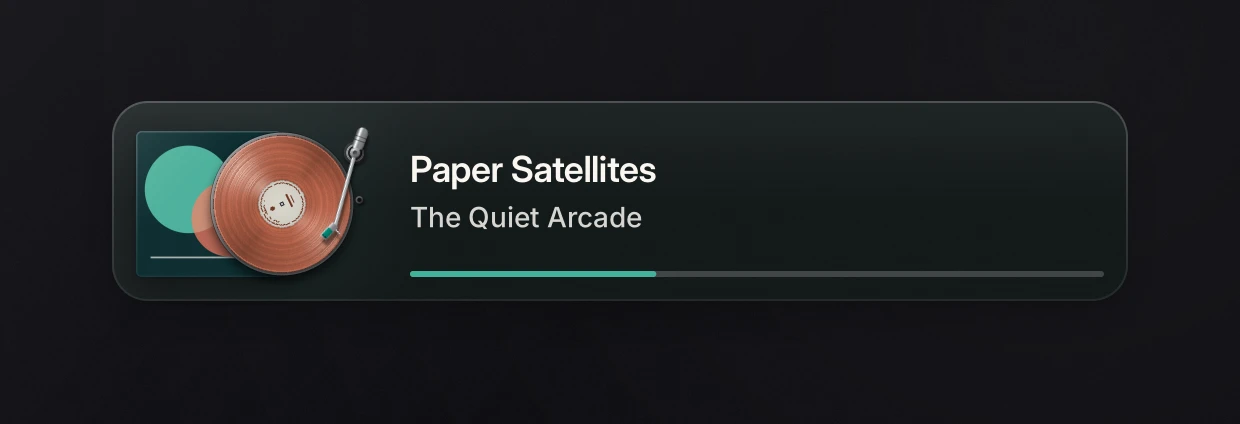
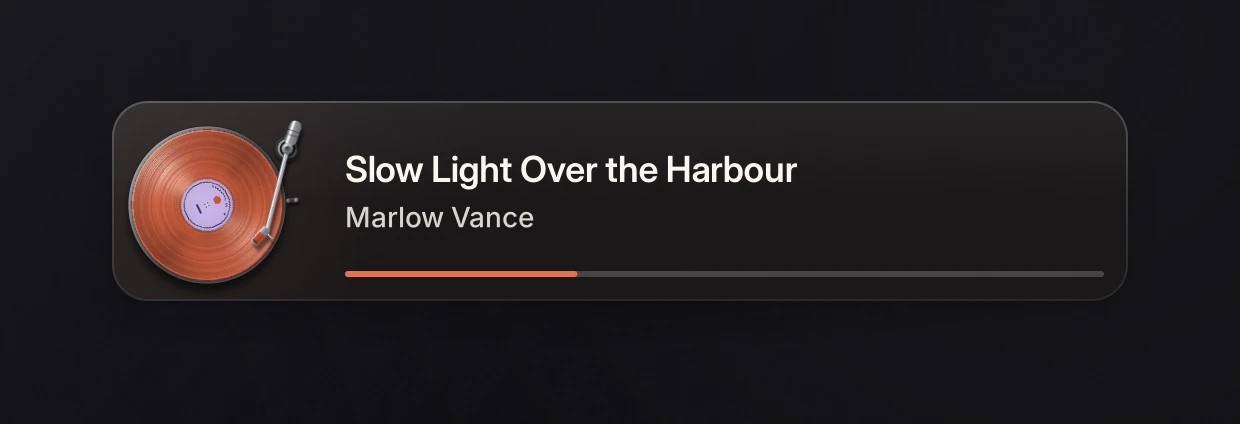
Polish the Turntable preset: bare-record Compact, per-album labels
Compact drops the sleeve and lets the record and arm fill the bar. Centre
labels are now designed per album from five quiet styles colored from the
cover. The Vertical deck is larger and centred on its visible hardware, and
the arm rest is drawn as a cradle instead of a dot.

Claude-Session: https://claude.ai/code/session_01GPtWgXY5JLzLnGpnXQ3beU

Changed region(s): [[0.0919, 0.2759, 0.6435, 0.6745]]

diff --git a/src/core/turntable.cpp b/src/core/turntable.cpp
@@ -201,7 +201,82 @@ Rect deckExtents(float ox, float oy)
 	return {x0, y0, x1 - x0, y1 - y0};
 }
 
-Pressing pressingFor(const Palette &pal, const Image *art)
+namespace {
+
+Color lch(float L, float C, float h) { return fromOklab(fromOklch({L, C, h})); }
+
+// Chooses and colors the centre label. Every style stays quiet: a paper or deep
+// tone, at most one second tone, and fine printed marks.
+void designLabel(Pressing &p, const Palette &pal, uint64_t seed)
+{
+	const Oklch vin = toOklch(toOklab(p.vinyl));
+	const Oklch dom = toOklch(toOklab(pal.dominant));
+	const Oklch acc = toOklch(toOklab(pal.accent));
+	const Oklch sec = toOklch(toOklab(pal.secondary));
+	const uint32_t h = static_cast<uint32_t>(seed ^ (seed >> 29) ^ (seed >> 47));
+	p.variant = h >> 8;
+	// Cream stock, nudged a little toward the sleeve's main color.
+	const Color paper = Color::hex("#efe9dc").mix(lch(0.90f, std::min(0.05f, dom.C), dom.h), 0.10f);
+	const float tintHue = dom.C > 0.03f ? dom.h : (sec.C > 0.03f ? sec.h : acc.h);
+	const float tintC = std::clamp(std::max(dom.C, acc.C * 0.5f), 0.045f, 0.085f);
+	const Color tint = lch(0.80f, tintC, tintHue);
+	const Color deep = lch(0.27f, std::clamp(acc.C * 0.55f, 0.03f, 0.085f), acc.h);
+	const Color accentInk = lch(0.56f, std::clamp(acc.C, 0.09f, 0.16f), acc.h);
+	const Color vinylInk = lch(0.30f, std::min(vin.C, 0.09f), vin.h);
+	const Color foil = acc.C > 0.06f ? lch(0.80f, 0.07f, acc.h) : Color::hex("#d9c48e");
+
+	p.style = static_cast<LabelStyle>(h % 5);
+	// Dark labels would vanish into a deep pressing; those get light variants instead.
+	const bool deepVinyl = p.colored && vin.L < 0.48f;
+	if (deepVinyl && p.style == LabelStyle::Foil)
+		p.style = LabelStyle::Split;
+	if (deepVinyl && p.style == LabelStyle::Band) {
+		p.label = paper;
+		p.label2 = tint;
+		p.ink = vinylInk;
+		return;
+	}
+	switch (p.style) {
+	case LabelStyle::Paper:
+		p.label = paper;
+		p.label2 = paper;
+		p.ink = vinylInk;
+		break;
+	case LabelStyle::Split:
+		p.label = paper;
+		p.label2 = tint;
+		p.ink = vinylInk;
+		break;
+	case LabelStyle::Band:
+		p.label = deep;
+		p.label2 = lch(0.36f, std::clamp(acc.C * 0.6f, 0.03f, 0.09f), acc.h);
+		p.ink = paper;
+		break;
+	case LabelStyle::Foil:
+		p.label = Color::hex("#161618").mix(deep, 0.25f);
+		p.label2 = foil;
+		p.ink = foil;
+		break;
+	case LabelStyle::Mark:
+		p.label = tint;
+		p.label2 = accentInk.mix(Color::hex("#ffffff"), 0.0f);
+		p.ink = lch(0.28f, std::min(tintC, 0.06f), tintHue);
+		break;
+	}
+}
+
+} // namespace
+
+Rect bareDeckExtents()
+{
+	const Vec2 pivot{kPivotX, kPivotY};
+	const Rect arm = armRestBounds(pivot, 1.0f);
+	const float x0 = std::min(-kPlatter, arm.x), y0 = std::min(-kPlatter, arm.y);
+	const float x1 = std::max(kPlatter, arm.right()), y1 = std::max(kPlatter, arm.bottom());
+	return {x0, y0, x1 - x0, y1 - y0};
+}
+
+Pressing pressingFor(const Palette &pal, const Image *art, uint64_t seed)
 {
 	Pressing p;
 	const Oklch acc = toOklch(toOklab(pal.accent));
@@ -217,8 +292,7 @@ Pressing pressingFor(const Palette &pal, const Image *art)
 		// A monochrome sleeve gets a classic black pressing with a cream label.
 		p.colored = false;
 		p.vinyl = Color::hex("#141517");
-		p.label = Color::hex("#ebe5d8");
-		p.ink = Color::hex("#2b2a28");
+		designLabel(p, pal, seed);
 		return p;
 	}
 	Oklch v = acc;
@@ -262,13 +336,86 @@ Pressing pressingFor(const Palette &pal, const Image *art)
 	// Lightness is set against the sleeve: luminous on dark covers, deep on light ones.
 	v.L = dom.L > 0.58f ? 0.42f : 0.60f;
 	p.vinyl = fromOklab(fromOklch(v));
-	p.label = Color::hex("#eee8dc").mix(pal.secondary, 0.10f);
-	Oklch ink = v;
-	ink.L = 0.32f;
-	ink.C = std::min(ink.C, 0.10f);
-	p.ink = fromOklab(fromOklch(ink));
+	designLabel(p, pal, seed);
 	return p;
 }
+
+namespace {
+
+// One pixel of the centre label, in label-local coordinates (record radii).
+Color labelColor(const Pressing &pr, float lx, float ly, float rho, float theta, float Rd)
+{
+	const float px = 1.0f / std::max(1.0f, Rd); // one pixel, in record radii
+	const float hair = std::max(0.006f, 0.8f * px);
+	const uint32_t v = pr.variant;
+	Color col = pr.label;
+	switch (pr.style) {
+	case LabelStyle::Split:
+		// Upper half in the second tone with a fine printed divider.
+		if (ly < -hair * 0.5f)
+			col = pr.label2;
+		if (std::fabs(ly) < hair * 0.5f)
+			col = pr.ink.mix(col, 0.3f);
+		break;
+	case LabelStyle::Band:
+	case LabelStyle::Foil:
+		if (rho > 0.262f)
+			col = pr.style == LabelStyle::Band ? pr.label2 : col;
+		break;
+	default:
+		break;
+	}
+	bool ink = false;
+	Color inkC = pr.ink;
+	// Printed rings: one hairline, or a pair on foil labels.
+	if (pr.style == LabelStyle::Foil) {
+		if (std::fabs(rho - 0.262f) < hair * 0.5f || std::fabs(rho - 0.322f) < hair * 0.5f)
+			ink = true;
+	} else if (pr.style != LabelStyle::Band) {
+		if (std::fabs(rho - 0.302f) < hair * 0.5f)
+			ink = true;
+	}
+	// Circular small print, on the top or the bottom arc.
+	const bool top = (v & 1) == 0;
+	const float arcR0 = pr.style == LabelStyle::Band || pr.style == LabelStyle::Foil ? 0.280f : 0.248f;
+	const float t0 = top ? -2.55f : 0.60f, t1 = top ? -0.60f : 2.55f;
+	if (rho > arcR0 && rho < arcR0 + 0.019f && theta > t0 && theta < t1) {
+		const float period = std::max(2.2f, 0.034f * Rd);
+		const float s = (theta - t0) * rho * Rd / period;
+		const int glyph = static_cast<int>(s);
+		ink = ink || ((s - glyph) < 0.70f && ringHash(glyph + 77 + static_cast<int>(v & 255)) > 0.18f);
+	}
+	// Title and catalogue lines on the side opposite the small print, a mark on the other.
+	const float sgn = top ? 1.0f : -1.0f;
+	const float w1 = 0.07f + 0.05f * ((v >> 2) & 3) / 3.0f;
+	if (std::fabs(ly - sgn * 0.118f) < 0.012f && std::fabs(lx) < w1)
+		ink = true;
+	if (((v >> 4) & 1) && std::fabs(ly - sgn * 0.160f) < 0.008f && std::fabs(lx) < w1 * 0.55f)
+		ink = true;
+	const float mx = 0.0f, my = -sgn * 0.150f;
+	const float mr = pr.style == LabelStyle::Mark ? 0.050f : 0.030f;
+	const float dxm = lx - mx, dym = ly - my;
+	bool mark = false;
+	switch ((v >> 5) % 3) {
+	case 0: mark = std::hypot(dxm, dym) < mr; break;                                  // dot
+	case 1: mark = std::fabs(dxm) + std::fabs(dym) < mr * 1.15f; break;               // diamond
+	case 2: mark = std::fabs(std::hypot(dxm, dym) - mr * 0.8f) < std::max(0.009f, px * 0.6f); break; // ring
+	}
+	if (mark) {
+		ink = true;
+		if (pr.style == LabelStyle::Mark || pr.style == LabelStyle::Foil)
+			inkC = pr.label2;
+	}
+	if (ink)
+		col = inkC.mix(col, 0.10f);
+	col = scaled(col, 1.0f - 0.07f * sq(rho / kLabel));
+	// The label edge is pressed slightly into the vinyl.
+	if (rho > kLabel - std::max(0.008f, 0.8f * px))
+		col = scaled(col, 0.86f);
+	return col;
+}
+
+} // namespace
 
 Image makeRecord(int side, const Pressing &pr, uint64_t seed)
 {
@@ -290,30 +437,7 @@ Image makeRecord(int side, const Pressing &pr, uint64_t seed)
 			Color col;
 			float alpha = 1.0f;
 			if (rho < kLabel) {
-				const float lx = dx / Rd, ly = dy / Rd;
-				col = scaled(pr.label, 1.0f - 0.07f * sq(rho / kLabel));
-				bool ink = false;
-				if (rho > 0.300f && rho < 0.300f + std::max(0.006f, 0.8f / Rd))
-					ink = true;
-				// Circular "small print" along the top of the label.
-				if (rho > 0.252f && rho < 0.272f && theta > -2.55f && theta < -0.60f) {
-					const float period = std::max(2.2f, 0.034f * Rd);
-					const float s = (theta + 2.55f) * rho * Rd / period;
-					const int glyph = static_cast<int>(s);
-					ink = ink || ((s - glyph) < 0.70f && ringHash(glyph + 77) > 0.18f);
-				}
-				// Title and catalogue lines below the spindle, a mark above it.
-				if (std::fabs(ly - 0.118f) < 0.013f && std::fabs(lx) < 0.105f)
-					ink = true;
-				if (std::fabs(ly - 0.165f) < 0.009f && std::fabs(lx) < 0.062f)
-					ink = true;
-				if (std::hypot(lx, ly + 0.155f) < 0.032f)
-					ink = true;
-				if (ink)
-					col = pr.ink.mix(col, 0.12f);
-				// The label edge is pressed slightly into the vinyl.
-				if (rho > kLabel - std::max(0.008f, 0.8f / Rd))
-					col = scaled(col, 0.86f);
+				col = labelColor(pr, dx / Rd, dy / Rd, rho, theta, Rd);
 			} else {
 				float shade;
 				if (rho > kLip) {
@@ -518,22 +642,32 @@ void drawPlinthHardware(Image &card, Vec2 P, float R)
 	});
 	disc(card, P, base * 0.62f, [](float, float) { return Color::hex("#1b1c1e"); });
 
-	// Arm rest: a small post with a cradle where the tube lies when lifted.
+	// Arm rest: a machined cradle across the tube's rest position, so the stop reads as
+	// hardware rather than a stray dot when the arm is out on the record.
 	const ArmShape A;
 	const Vec2 J = A.joint();
 	const Vec2 rest{P.x + J.x * 0.63f * R, P.y + J.y * 0.63f * R};
-	const float post = std::max(1.6f, 0.055f * R);
+	const float len = std::hypot(J.x, J.y);
+	const Vec2 across{J.y / len, -J.x / len};
+	const float hl = std::max(2.4f, 0.085f * R), hw = std::max(1.2f, 0.034f * R);
 	{
 		Image shadow(card.width(), card.height());
-		disc(shadow, {rest.x + 0.02f * R, rest.y + 0.03f * R}, post, [](float, float) { return Color{0, 0, 0, 0.6f}; });
+		box(shadow, {rest.x + 0.02f * R, rest.y + 0.035f * R}, across, hl, hw, hw, [](float, float) { return Color{0, 0, 0, 0.6f}; });
 		blur(shadow, std::max(1.0f, 0.03f * R));
 		composite(card, shadow, 0, 0);
 	}
-	disc(card, rest, post, [](float dx, float dy) {
-		const float l = 0.16f + 0.30f * dome(dx, dy);
+	box(card, rest, across, hl, hw, hw, [](float v, float) {
+		const float l = 0.14f + 0.16f * sat(v * 0.5f + 0.5f);
 		return Color{l, l, l * 1.03f, 1};
 	});
-	disc(card, rest, post * 0.55f, [](float, float) { return Color::hex("#0e0f10"); });
+	// Two posts that cradle the tube.
+	for (float side : {-1.0f, 1.0f}) {
+		const Vec2 c{rest.x + across.x * side * hl * 0.62f, rest.y + across.y * side * hl * 0.62f};
+		disc(card, c, std::max(0.9f, 0.026f * R), [](float dx, float dy) {
+			const float l = 0.30f + 0.40f * dome(dx, dy);
+			return Color{l, l, l * 1.03f, 1};
+		});
+	}
 }
 
 } // namespace turntable

diff --git a/src/core/layout.cpp b/src/core/layout.cpp
@@ -200,7 +200,7 @@ Layout computeLayout(const Style &s, const LayoutContent &content)
 		case LayoutMode::CompactHorizontal: ox = 0.50f; oy = 0.0f; break;
 		case LayoutMode::ExpandedHorizontal: ox = 0.52f; oy = 0.0f; break;
 		case LayoutMode::Square: ox = 0.40f; oy = 0.04f; break;
-		case LayoutMode::Vertical: ox = 0.21f; oy = 0.50f; break;
+		case LayoutMode::Vertical: ox = 0.14f; oy = 0.46f; break;
 		}
 		const Rect ext = turntable::deckExtents(ox, oy);
 		const float progH = horizontal && compact ? 0.0f : progressRowHeight(s, c, u);
@@ -216,20 +216,33 @@ Layout computeLayout(const Style &s, const LayoutContent &content)
 			const float textH = copyH + progGap + progH;
 			const float room = std::max(8.0f, inner.h - textH - deckGap);
 			side = std::min(inner.w / ext.w, room / ext.h);
-			deck = {inner.x + (inner.w - ext.w * side) * 0.5f, inner.y + (room - ext.h * side) * 0.5f, ext.w * side,
-				ext.h * side};
+			// The arm's extents include its soft shadow; centre on the visible hardware.
+			deck = {inner.x + (inner.w - ext.w * side) * 0.5f + 0.03f * side, inner.y + (room - ext.h * side) * 0.5f,
+				ext.w * side, ext.h * side};
 		}
 		side = std::max(8.0f, side);
 		const Rect sleeve{std::round(deck.x - ext.x * side), std::round(deck.y - ext.y * side), std::round(side), std::round(side)};
-		const float R = std::round(side * turntable::kRecordToSleeve * 0.5f);
-		const Vec2 center{sleeve.cx() + ox * side, sleeve.cy() + oy * side};
+		float R = std::round(side * turntable::kRecordToSleeve * 0.5f);
+		Vec2 center{sleeve.cx() + ox * side, sleeve.cy() + oy * side};
+		if (compact) {
+			// Compact is the distilled deck: no sleeve, just the record and its arm,
+			// filling the bar's height with an even margin on the left.
+			const Rect bare = turntable::bareDeckExtents();
+			const float margin = std::round(space2 * u);
+			const float room = std::max(8.0f, L.card.h - margin * 2);
+			R = std::floor(std::min(room / bare.h, inner.w * 0.34f / bare.w));
+			const float top = L.card.y + (L.card.h - bare.h * R) * 0.5f;
+			center = {std::round(L.card.x + margin + std::max(0.0f, -bare.x - turntable::kPlatter) * R + turntable::kPlatter * R),
+				  std::round(top - bare.y * R)};
+			deck = {center.x + bare.x * R, top, bare.w * R, bare.h * R};
+		}
 		L.record = {std::round(center.x - R), std::round(center.y - R), R * 2, R * 2};
 		L.recordVisible = c.hasArtwork; // the idle placeholder shows no phantom record
 		L.armPivot = {L.record.cx() + turntable::kPivotX * R, L.record.cy() + turntable::kPivotY * R};
 		L.armZone = turntable::armRestBounds(L.armPivot, R);
 		L.armOuter = turntable::armAngleForRadius(0.925f);
 		L.armInner = turntable::armAngleForRadius(0.49f);
-		if (art) {
+		if (art && !compact) {
 			L.artVisible = true;
 			L.artPlacement = ArtPlacement::Inset;
 			L.art = sleeve;

diff --git a/tests/test_raster.cpp b/tests/test_raster.cpp
@@ -100,6 +100,24 @@ TEST("raster: Turntable pressings separate from their sleeves")
 	CHECK(relativeLuminance(pg.vinyl) < 0.02f);
 }
 
+TEST("raster: Turntable Compact is the bare record, and labels vary by album")
+{
+	auto set = rasterizeLayers(makePreset("turntable", LayoutMode::CompactHorizontal), content(0), testsupport::text());
+	CHECK(set->record.valid());
+	CHECK(!set->art.valid());                                 // no sleeve in Compact
+	CHECK(set->layout.record.h > set->layout.card.h * 0.70f); // the record fills the bar
+	CHECK(set->layout.record.right() < set->layout.textColumn.x);
+
+	Palette pal{Color::hex("#1d1440"), Color::hex("#e2604a"), Color::hex("#7a2a62"), Color::hex("#120a1f"), true};
+	bool seen[5] = {};
+	for (uint64_t seed = 0; seed < 40; ++seed)
+		seen[static_cast<int>(turntable::pressingFor(pal, nullptr, seed * 7919).style)] = true;
+	int styles = 0;
+	for (bool b : seen)
+		styles += b ? 1 : 0;
+	CHECK(styles >= 4);
+}
+
 TEST("raster: short titles never scroll")
 {
 	auto set = rasterizeLayers(makePreset("minimal", LayoutMode::ExpandedHorizontal), content(2), testsupport::text());

diff --git a/src/core/turntable.hpp b/src/core/turntable.hpp
@@ -32,13 +32,21 @@ float armAngleForRadius(float rho);
 Rect deckExtents(float ox, float oy);
 
 // Collectible pressing color: the cover's hue, pushed away from the sleeve.
+// The centre label is designed per album: one of a few understated label styles,
+// picked from the album's identity and colored from its cover.
+enum class LabelStyle { Paper, Split, Band, Foil, Mark };
 struct Pressing {
 	Color vinyl;
-	Color label;
-	Color ink;
+	Color label;   // label paper
+	Color label2;  // second tone: split half, band, or foil accent
+	Color ink;     // printed marks
+	LabelStyle style = LabelStyle::Paper;
+	uint32_t variant = 0; // small print placement and mark shape
 	bool colored = true;
 };
-Pressing pressingFor(const Palette &pal, const Image *art = nullptr);
+Pressing pressingFor(const Palette &pal, const Image *art = nullptr, uint64_t seed = 0);
+// Deck bounds for a record without its sleeve (Compact), in record radii around its centre.
+Rect bareDeckExtents();
 
 Image makeRecord(int side, const Pressing &p, uint64_t seed);
 Image makeSheen(int side, const Pressing &p);

diff --git a/src/core/raster.cpp b/src/core/raster.cpp
@@ -540,8 +540,12 @@ std::shared_ptr<LayerSet> rasterizeLayers(const Style &s, const DisplayContent &
 	if (comp == Composition::Turntable && L.recordVisible && !L.record.empty()) {
 		const int side = std::max(8, static_cast<int>(std::lround(L.record.w)));
 		const float R = side * 0.5f;
-		const turntable::Pressing press = turntable::pressingFor(set->palette, c.artwork && !c.artwork->empty() ? c.artwork.get() : nullptr);
 		const uint64_t seed = seedFor(c);
+		// Labels belong to the album, so every track of an album shares its label design.
+		const std::string albumKey = c.artist + "|" + (c.album.empty() ? c.title : c.album);
+		const uint64_t labelSeed = hashBytes(reinterpret_cast<const uint8_t *>(albumKey.data()), albumKey.size());
+		const turntable::Pressing press =
+			turntable::pressingFor(set->palette, c.artwork && !c.artwork->empty() ? c.artwork.get() : nullptr, labelSeed);
 		const int pad = static_cast<int>(std::ceil(0.16f * R + 8.0f * u));
 		set->platter.image = share(turntable::makePlatter(side, pad, u));
 		set->platter.id = nextImageId();

diff --git a/CHANGELOG.md b/CHANGELOG.md
@@ -8,7 +8,8 @@ All notable changes to Tonearm are listed here. The format follows [Keep a Chang
 
 - Turntable preset redesigned. The record now sits on a machined platter in front of its sleeve, with a full tonearm assembly (bearing housing, counterweight, offset headshell and a cartridge in the cover's accent color) and an arm rest. The pressing is colored from the artwork but kept apart from the sleeve: luminous on dark covers, deep on light ones, a second cover hue when the main one matches the sleeve, and classic black vinyl for monochrome covers. Grooves, track gaps, run-out and a printed label are rendered once per track; the light stays fixed while the record turns under it.
 - Turntable motion: the platter spins up to 33 1/3 RPM and coasts to a stop on pause, the arm lifts to its rest for pauses and track changes and sets down on the lead-in, then tracks inward with the song. The hardware is no longer dimmed on pause, and a new record settles over the old one instead of cross-fading through it.
-- Turntable layouts: each of Compact, Expanded, Square and Vertical fits its own deck composition to the space; Square and Vertical anchor the text to the bottom so the deck fills the rest.
+- Turntable layouts: each of Compact, Expanded, Square and Vertical fits its own deck composition to the space; Square and Vertical anchor the text to the bottom so the deck fills the rest. Compact is the distilled version: just the record and its arm, filling the bar's height, with no sleeve.
+- Turntable labels are designed per album: one of five understated styles (paper, split, band, foil, mark), colored from the cover and shared by every track of an album.
 
 ## [0.2.0] - 2026-11-19
 
